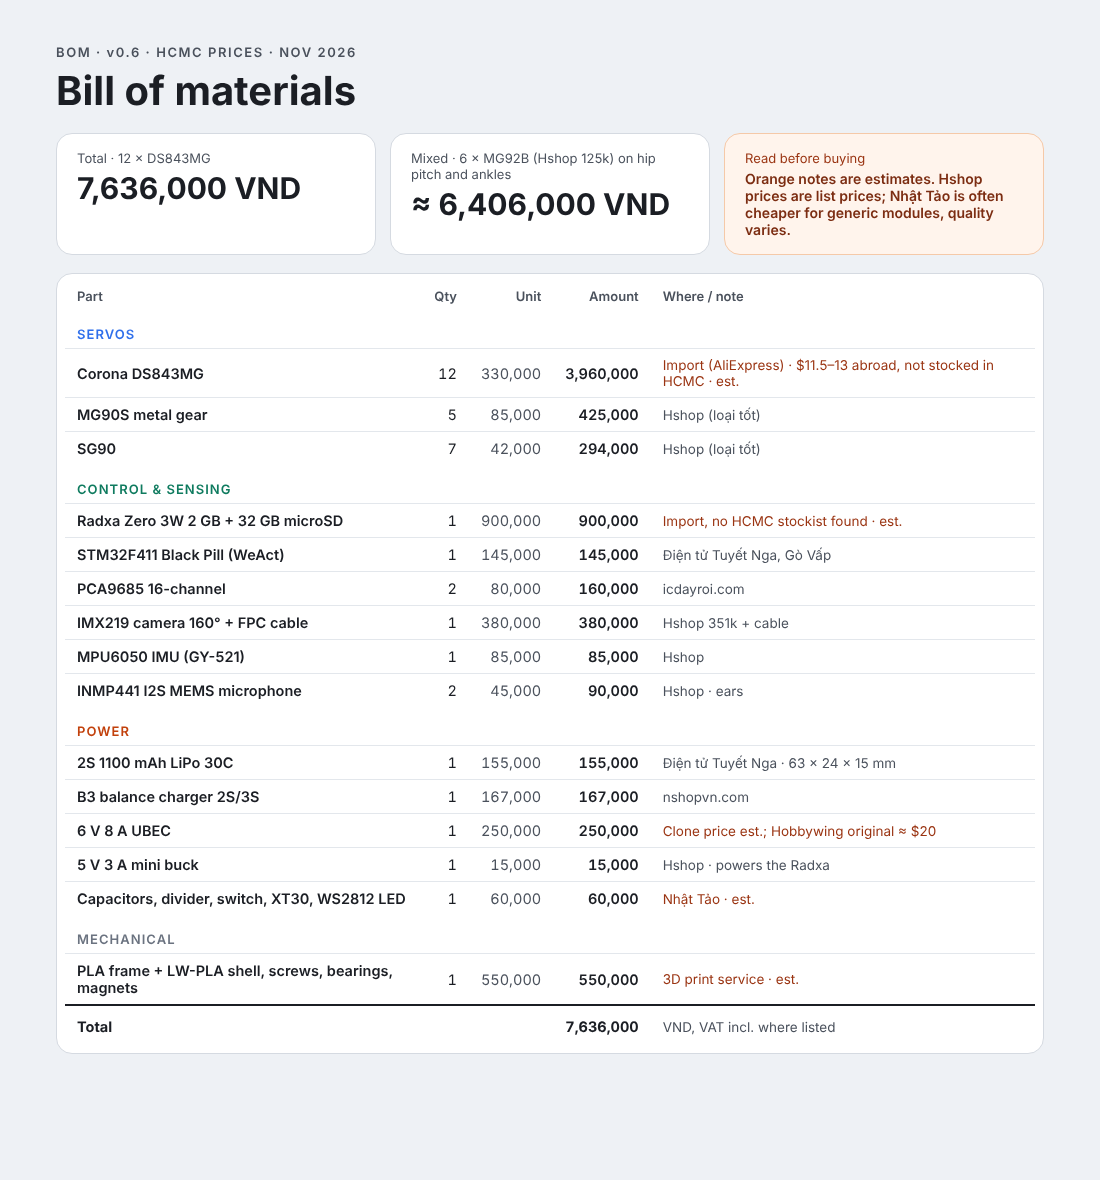
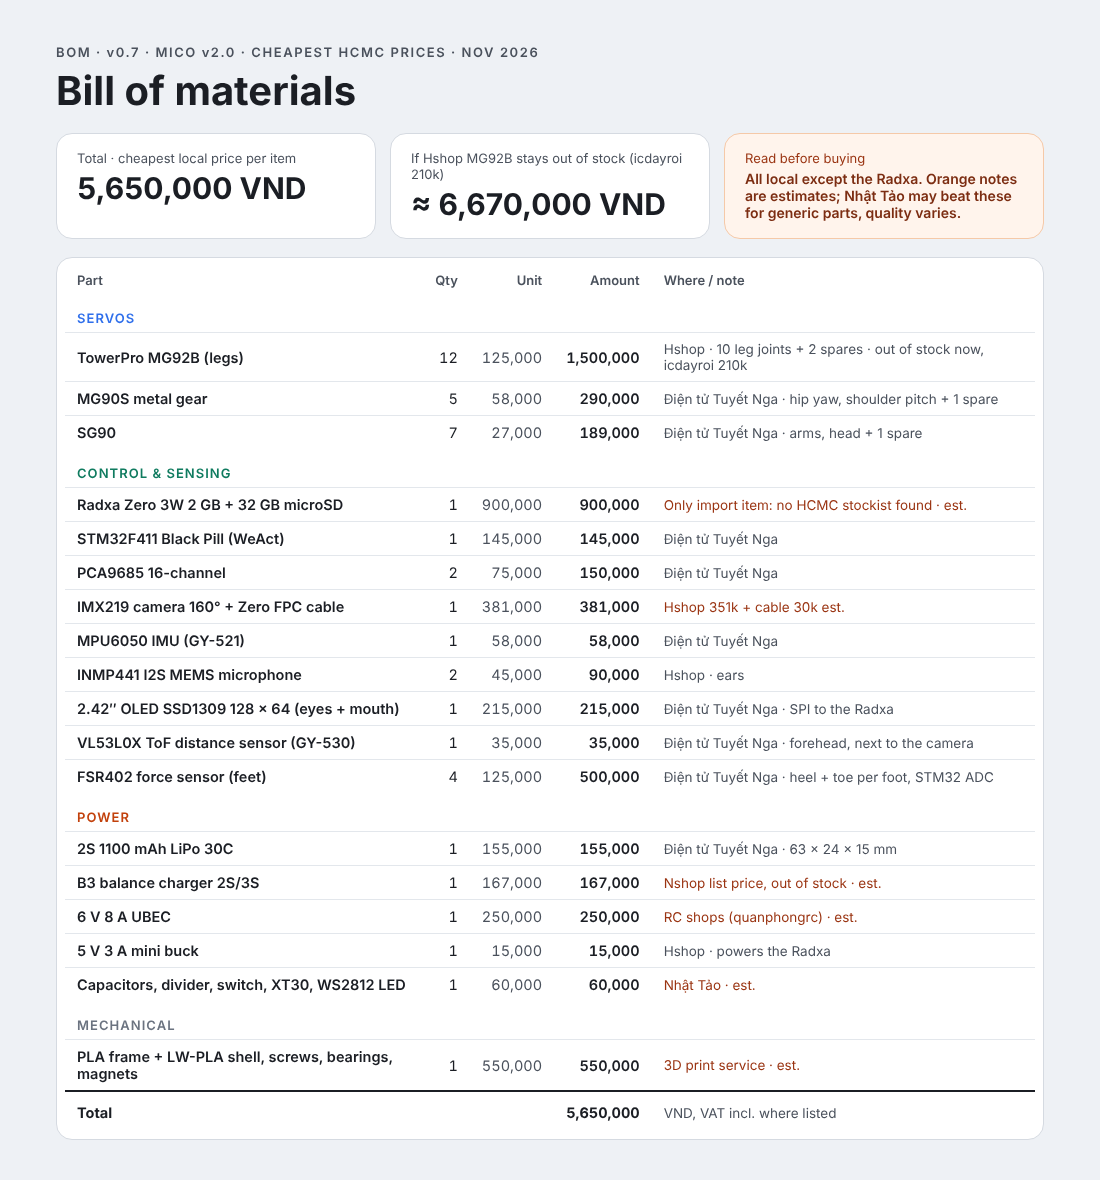
docs(design): BOM v0.7 with local servos, OLED eyes, FSR and ToF

diff --git a/docs/design/sketch_shell_a/BOM.dc.html b/docs/design/sketch_shell_a/BOM.dc.html
@@ -16,21 +16,21 @@ body{margin:0}
 </helmet>
 <div style="width: 1100px; height: 1180px; box-sizing: border-box; padding: 44px 56px; background: #EEF1F5; display: flex; flex-direction: column; gap: 18px; font-family: Inter, system-ui, sans-serif; color: #1B1E24">
 <div style="display: flex; flex-direction: column; gap: 6px">
-<p style="margin: 0; font-size: 13px; font-weight: 600; letter-spacing: 0.12em; color: #4A515C">BOM · v0.6 · HCMC PRICES · NOV 2026</p>
+<p style="margin: 0; font-size: 13px; font-weight: 600; letter-spacing: 0.12em; color: #4A515C">BOM · v0.7 · MICO v2.0 · CHEAPEST HCMC PRICES · NOV 2026</p>
 <h2 style="margin: 0; font-family: 'Space Grotesk', Inter, sans-serif; font-size: 40px; font-weight: 700">Bill of materials</h2>
 </div>
 <div style="display: flex; gap: 14px">
 <div style="flex: 1 1 0; background: #FFFFFF; border: 1px solid #D5DAE1; border-radius: 16px; padding: 16px 20px; display: flex; flex-direction: column; gap: 4px">
-<span style="font-size: 13px; color: #4A515C">Total · 12 × DS843MG</span>
-<span style="font-family: 'Space Grotesk', Inter, sans-serif; font-size: 30px; font-weight: 700">7,636,000 VND</span>
+<span style="font-size: 13px; color: #4A515C">Total · cheapest local price per item</span>
+<span style="font-family: 'Space Grotesk', Inter, sans-serif; font-size: 30px; font-weight: 700">5,650,000 VND</span>
 </div>
 <div style="flex: 1 1 0; background: #FFFFFF; border: 1px solid #D5DAE1; border-radius: 16px; padding: 16px 20px; display: flex; flex-direction: column; gap: 4px">
-<span style="font-size: 13px; color: #4A515C">Mixed · 6 × MG92B (Hshop 125k) on hip pitch and ankles</span>
-<span style="font-family: 'Space Grotesk', Inter, sans-serif; font-size: 30px; font-weight: 700">≈ 6,406,000 VND</span>
+<span style="font-size: 13px; color: #4A515C">If Hshop MG92B stays out of stock (icdayroi 210k)</span>
+<span style="font-family: 'Space Grotesk', Inter, sans-serif; font-size: 30px; font-weight: 700">≈ 6,670,000 VND</span>
 </div>
 <div style="flex: 1 1 0; background: #FFF4EC; border: 1px solid #F5C9A8; border-radius: 16px; padding: 16px 20px; display: flex; flex-direction: column; gap: 4px">
 <span style="font-size: 13px; color: #9A3412">Read before buying</span>
-<span style="font-size: 14px; font-weight: 600; color: #7C2D12">Orange notes are estimates. Hshop prices are list prices; Nhật Tảo is often cheaper for generic modules, quality varies.</span>
+<span style="font-size: 14px; font-weight: 600; color: #7C2D12">All local except the Radxa. Orange notes are estimates; Nhật Tảo may beat these for generic parts, quality varies.</span>
 </div>
 </div>
 <div style="background: #FFFFFF; border: 1px solid #D5DAE1; border-radius: 16px; padding: 2px 8px 6px">
@@ -44,26 +44,29 @@ body{margin:0}
 </tr></thead>
 <tbody>
 <tr><td colspan="5" style="padding: 16px 12px 6px; font-size: 13px; font-weight: 600; letter-spacing: 0.08em; color: #2F6FEB; text-transform: uppercase">Servos</td></tr>
-<tr style="border-top: 1px solid #E3E7EC"><td style="padding: 8px 12px; font-weight: 600">Corona DS843MG</td><td style="padding: 8px 12px; text-align: right; font-variant-numeric: tabular-nums">12</td><td style="padding: 8px 12px; text-align: right; font-variant-numeric: tabular-nums; color: #4A515C">330,000</td><td style="padding: 8px 12px; text-align: right; font-variant-numeric: tabular-nums; font-weight: 600">3,960,000</td><td style="padding: 8px 12px; font-size: 13.5px; color: #9A3412">Import (AliExpress) · $11.5–13 abroad, not stocked in HCMC · est.</td></tr>
-<tr style="border-top: 1px solid #E3E7EC"><td style="padding: 8px 12px; font-weight: 600">MG90S metal gear</td><td style="padding: 8px 12px; text-align: right; font-variant-numeric: tabular-nums">5</td><td style="padding: 8px 12px; text-align: right; font-variant-numeric: tabular-nums; color: #4A515C">85,000</td><td style="padding: 8px 12px; text-align: right; font-variant-numeric: tabular-nums; font-weight: 600">425,000</td><td style="padding: 8px 12px; font-size: 13.5px; color: #4A515C">Hshop (loại tốt)</td></tr>
-<tr style="border-top: 1px solid #E3E7EC"><td style="padding: 8px 12px; font-weight: 600">SG90</td><td style="padding: 8px 12px; text-align: right; font-variant-numeric: tabular-nums">7</td><td style="padding: 8px 12px; text-align: right; font-variant-numeric: tabular-nums; color: #4A515C">42,000</td><td style="padding: 8px 12px; text-align: right; font-variant-numeric: tabular-nums; font-weight: 600">294,000</td><td style="padding: 8px 12px; font-size: 13.5px; color: #4A515C">Hshop (loại tốt)</td></tr>
+<tr style="border-top: 1px solid #E3E7EC"><td style="padding: 8px 12px; font-weight: 600">TowerPro MG92B (legs)</td><td style="padding: 8px 12px; text-align: right; font-variant-numeric: tabular-nums">12</td><td style="padding: 8px 12px; text-align: right; font-variant-numeric: tabular-nums; color: #4A515C">125,000</td><td style="padding: 8px 12px; text-align: right; font-variant-numeric: tabular-nums; font-weight: 600">1,500,000</td><td style="padding: 8px 12px; font-size: 13.5px; color: #4A515C">Hshop · 10 leg joints + 2 spares · out of stock now, icdayroi 210k</td></tr>
+<tr style="border-top: 1px solid #E3E7EC"><td style="padding: 8px 12px; font-weight: 600">MG90S metal gear</td><td style="padding: 8px 12px; text-align: right; font-variant-numeric: tabular-nums">5</td><td style="padding: 8px 12px; text-align: right; font-variant-numeric: tabular-nums; color: #4A515C">58,000</td><td style="padding: 8px 12px; text-align: right; font-variant-numeric: tabular-nums; font-weight: 600">290,000</td><td style="padding: 8px 12px; font-size: 13.5px; color: #4A515C">Điện tử Tuyết Nga · hip yaw, shoulder pitch + 1 spare</td></tr>
+<tr style="border-top: 1px solid #E3E7EC"><td style="padding: 8px 12px; font-weight: 600">SG90</td><td style="padding: 8px 12px; text-align: right; font-variant-numeric: tabular-nums">7</td><td style="padding: 8px 12px; text-align: right; font-variant-numeric: tabular-nums; color: #4A515C">27,000</td><td style="padding: 8px 12px; text-align: right; font-variant-numeric: tabular-nums; font-weight: 600">189,000</td><td style="padding: 8px 12px; font-size: 13.5px; color: #4A515C">Điện tử Tuyết Nga · arms, head + 1 spare</td></tr>
 <tr><td colspan="5" style="padding: 16px 12px 6px; font-size: 13px; font-weight: 600; letter-spacing: 0.08em; color: #0F7B5F; text-transform: uppercase">Control & sensing</td></tr>
-<tr style="border-top: 1px solid #E3E7EC"><td style="padding: 8px 12px; font-weight: 600">Radxa Zero 3W 2 GB + 32 GB microSD</td><td style="padding: 8px 12px; text-align: right; font-variant-numeric: tabular-nums">1</td><td style="padding: 8px 12px; text-align: right; font-variant-numeric: tabular-nums; color: #4A515C">900,000</td><td style="padding: 8px 12px; text-align: right; font-variant-numeric: tabular-nums; font-weight: 600">900,000</td><td style="padding: 8px 12px; font-size: 13.5px; color: #9A3412">Import, no HCMC stockist found · est.</td></tr>
-<tr style="border-top: 1px solid #E3E7EC"><td style="padding: 8px 12px; font-weight: 600">STM32F411 Black Pill (WeAct)</td><td style="padding: 8px 12px; text-align: right; font-variant-numeric: tabular-nums">1</td><td style="padding: 8px 12px; text-align: right; font-variant-numeric: tabular-nums; color: #4A515C">145,000</td><td style="padding: 8px 12px; text-align: right; font-variant-numeric: tabular-nums; font-weight: 600">145,000</td><td style="padding: 8px 12px; font-size: 13.5px; color: #4A515C">Điện tử Tuyết Nga, Gò Vấp</td></tr>
-<tr style="border-top: 1px solid #E3E7EC"><td style="padding: 8px 12px; font-weight: 600">PCA9685 16-channel</td><td style="padding: 8px 12px; text-align: right; font-variant-numeric: tabular-nums">2</td><td style="padding: 8px 12px; text-align: right; font-variant-numeric: tabular-nums; color: #4A515C">80,000</td><td style="padding: 8px 12px; text-align: right; font-variant-numeric: tabular-nums; font-weight: 600">160,000</td><td style="padding: 8px 12px; font-size: 13.5px; color: #4A515C">icdayroi.com</td></tr>
-<tr style="border-top: 1px solid #E3E7EC"><td style="padding: 8px 12px; font-weight: 600">IMX219 camera 160° + FPC cable</td><td style="padding: 8px 12px; text-align: right; font-variant-numeric: tabular-nums">1</td><td style="padding: 8px 12px; text-align: right; font-variant-numeric: tabular-nums; color: #4A515C">380,000</td><td style="padding: 8px 12px; text-align: right; font-variant-numeric: tabular-nums; font-weight: 600">380,000</td><td style="padding: 8px 12px; font-size: 13.5px; color: #4A515C">Hshop 351k + cable</td></tr>
-<tr style="border-top: 1px solid #E3E7EC"><td style="padding: 8px 12px; font-weight: 600">MPU6050 IMU (GY-521)</td><td style="padding: 8px 12px; text-align: right; font-variant-numeric: tabular-nums">1</td><td style="padding: 8px 12px; text-align: right; font-variant-numeric: tabular-nums; color: #4A515C">85,000</td><td style="padding: 8px 12px; text-align: right; font-variant-numeric: tabular-nums; font-weight: 600">85,000</td><td style="padding: 8px 12px; font-size: 13.5px; color: #4A515C">Hshop</td></tr>
+<tr style="border-top: 1px solid #E3E7EC"><td style="padding: 8px 12px; font-weight: 600">Radxa Zero 3W 2 GB + 32 GB microSD</td><td style="padding: 8px 12px; text-align: right; font-variant-numeric: tabular-nums">1</td><td style="padding: 8px 12px; text-align: right; font-variant-numeric: tabular-nums; color: #4A515C">900,000</td><td style="padding: 8px 12px; text-align: right; font-variant-numeric: tabular-nums; font-weight: 600">900,000</td><td style="padding: 8px 12px; font-size: 13.5px; color: #9A3412">Only import item: no HCMC stockist found · est.</td></tr>
+<tr style="border-top: 1px solid #E3E7EC"><td style="padding: 8px 12px; font-weight: 600">STM32F411 Black Pill (WeAct)</td><td style="padding: 8px 12px; text-align: right; font-variant-numeric: tabular-nums">1</td><td style="padding: 8px 12px; text-align: right; font-variant-numeric: tabular-nums; color: #4A515C">145,000</td><td style="padding: 8px 12px; text-align: right; font-variant-numeric: tabular-nums; font-weight: 600">145,000</td><td style="padding: 8px 12px; font-size: 13.5px; color: #4A515C">Điện tử Tuyết Nga</td></tr>
+<tr style="border-top: 1px solid #E3E7EC"><td style="padding: 8px 12px; font-weight: 600">PCA9685 16-channel</td><td style="padding: 8px 12px; text-align: right; font-variant-numeric: tabular-nums">2</td><td style="padding: 8px 12px; text-align: right; font-variant-numeric: tabular-nums; color: #4A515C">75,000</td><td style="padding: 8px 12px; text-align: right; font-variant-numeric: tabular-nums; font-weight: 600">150,000</td><td style="padding: 8px 12px; font-size: 13.5px; color: #4A515C">Điện tử Tuyết Nga</td></tr>
+<tr style="border-top: 1px solid #E3E7EC"><td style="padding: 8px 12px; font-weight: 600">IMX219 camera 160° + Zero FPC cable</td><td style="padding: 8px 12px; text-align: right; font-variant-numeric: tabular-nums">1</td><td style="padding: 8px 12px; text-align: right; font-variant-numeric: tabular-nums; color: #4A515C">381,000</td><td style="padding: 8px 12px; text-align: right; font-variant-numeric: tabular-nums; font-weight: 600">381,000</td><td style="padding: 8px 12px; font-size: 13.5px; color: #9A3412">Hshop 351k + cable 30k est.</td></tr>
+<tr style="border-top: 1px solid #E3E7EC"><td style="padding: 8px 12px; font-weight: 600">MPU6050 IMU (GY-521)</td><td style="padding: 8px 12px; text-align: right; font-variant-numeric: tabular-nums">1</td><td style="padding: 8px 12px; text-align: right; font-variant-numeric: tabular-nums; color: #4A515C">58,000</td><td style="padding: 8px 12px; text-align: right; font-variant-numeric: tabular-nums; font-weight: 600">58,000</td><td style="padding: 8px 12px; font-size: 13.5px; color: #4A515C">Điện tử Tuyết Nga</td></tr>
 <tr style="border-top: 1px solid #E3E7EC"><td style="padding: 8px 12px; font-weight: 600">INMP441 I2S MEMS microphone</td><td style="padding: 8px 12px; text-align: right; font-variant-numeric: tabular-nums">2</td><td style="padding: 8px 12px; text-align: right; font-variant-numeric: tabular-nums; color: #4A515C">45,000</td><td style="padding: 8px 12px; text-align: right; font-variant-numeric: tabular-nums; font-weight: 600">90,000</td><td style="padding: 8px 12px; font-size: 13.5px; color: #4A515C">Hshop · ears</td></tr>
+<tr style="border-top: 1px solid #E3E7EC"><td style="padding: 8px 12px; font-weight: 600">2.42″ OLED SSD1309 128 × 64 (eyes + mouth)</td><td style="padding: 8px 12px; text-align: right; font-variant-numeric: tabular-nums">1</td><td style="padding: 8px 12px; text-align: right; font-variant-numeric: tabular-nums; color: #4A515C">215,000</td><td style="padding: 8px 12px; text-align: right; font-variant-numeric: tabular-nums; font-weight: 600">215,000</td><td style="padding: 8px 12px; font-size: 13.5px; color: #4A515C">Điện tử Tuyết Nga · SPI to the Radxa</td></tr>
+<tr style="border-top: 1px solid #E3E7EC"><td style="padding: 8px 12px; font-weight: 600">VL53L0X ToF distance sensor (GY-530)</td><td style="padding: 8px 12px; text-align: right; font-variant-numeric: tabular-nums">1</td><td style="padding: 8px 12px; text-align: right; font-variant-numeric: tabular-nums; color: #4A515C">35,000</td><td style="padding: 8px 12px; text-align: right; font-variant-numeric: tabular-nums; font-weight: 600">35,000</td><td style="padding: 8px 12px; font-size: 13.5px; color: #4A515C">Điện tử Tuyết Nga · forehead, next to the camera</td></tr>
+<tr style="border-top: 1px solid #E3E7EC"><td style="padding: 8px 12px; font-weight: 600">FSR402 force sensor (feet)</td><td style="padding: 8px 12px; text-align: right; font-variant-numeric: tabular-nums">4</td><td style="padding: 8px 12px; text-align: right; font-variant-numeric: tabular-nums; color: #4A515C">125,000</td><td style="padding: 8px 12px; text-align: right; font-variant-numeric: tabular-nums; font-weight: 600">500,000</td><td style="padding: 8px 12px; font-size: 13.5px; color: #4A515C">Điện tử Tuyết Nga · heel + toe per foot, STM32 ADC</td></tr>
 <tr><td colspan="5" style="padding: 16px 12px 6px; font-size: 13px; font-weight: 600; letter-spacing: 0.08em; color: #C2410C; text-transform: uppercase">Power</td></tr>
 <tr style="border-top: 1px solid #E3E7EC"><td style="padding: 8px 12px; font-weight: 600">2S 1100 mAh LiPo 30C</td><td style="padding: 8px 12px; text-align: right; font-variant-numeric: tabular-nums">1</td><td style="padding: 8px 12px; text-align: right; font-variant-numeric: tabular-nums; color: #4A515C">155,000</td><td style="padding: 8px 12px; text-align: right; font-variant-numeric: tabular-nums; font-weight: 600">155,000</td><td style="padding: 8px 12px; font-size: 13.5px; color: #4A515C">Điện tử Tuyết Nga · 63 × 24 × 15 mm</td></tr>
-<tr style="border-top: 1px solid #E3E7EC"><td style="padding: 8px 12px; font-weight: 600">B3 balance charger 2S/3S</td><td style="padding: 8px 12px; text-align: right; font-variant-numeric: tabular-nums">1</td><td style="padding: 8px 12px; text-align: right; font-variant-numeric: tabular-nums; color: #4A515C">167,000</td><td style="padding: 8px 12px; text-align: right; font-variant-numeric: tabular-nums; font-weight: 600">167,000</td><td style="padding: 8px 12px; font-size: 13.5px; color: #4A515C">nshopvn.com</td></tr>
-<tr style="border-top: 1px solid #E3E7EC"><td style="padding: 8px 12px; font-weight: 600">6 V 8 A UBEC</td><td style="padding: 8px 12px; text-align: right; font-variant-numeric: tabular-nums">1</td><td style="padding: 8px 12px; text-align: right; font-variant-numeric: tabular-nums; color: #4A515C">250,000</td><td style="padding: 8px 12px; text-align: right; font-variant-numeric: tabular-nums; font-weight: 600">250,000</td><td style="padding: 8px 12px; font-size: 13.5px; color: #9A3412">Clone price est.; Hobbywing original ≈ $20</td></tr>
+<tr style="border-top: 1px solid #E3E7EC"><td style="padding: 8px 12px; font-weight: 600">B3 balance charger 2S/3S</td><td style="padding: 8px 12px; text-align: right; font-variant-numeric: tabular-nums">1</td><td style="padding: 8px 12px; text-align: right; font-variant-numeric: tabular-nums; color: #4A515C">167,000</td><td style="padding: 8px 12px; text-align: right; font-variant-numeric: tabular-nums; font-weight: 600">167,000</td><td style="padding: 8px 12px; font-size: 13.5px; color: #9A3412">Nshop list price, out of stock · est.</td></tr>
+<tr style="border-top: 1px solid #E3E7EC"><td style="padding: 8px 12px; font-weight: 600">6 V 8 A UBEC</td><td style="padding: 8px 12px; text-align: right; font-variant-numeric: tabular-nums">1</td><td style="padding: 8px 12px; text-align: right; font-variant-numeric: tabular-nums; color: #4A515C">250,000</td><td style="padding: 8px 12px; text-align: right; font-variant-numeric: tabular-nums; font-weight: 600">250,000</td><td style="padding: 8px 12px; font-size: 13.5px; color: #9A3412">RC shops (quanphongrc) · est.</td></tr>
 <tr style="border-top: 1px solid #E3E7EC"><td style="padding: 8px 12px; font-weight: 600">5 V 3 A mini buck</td><td style="padding: 8px 12px; text-align: right; font-variant-numeric: tabular-nums">1</td><td style="padding: 8px 12px; text-align: right; font-variant-numeric: tabular-nums; color: #4A515C">15,000</td><td style="padding: 8px 12px; text-align: right; font-variant-numeric: tabular-nums; font-weight: 600">15,000</td><td style="padding: 8px 12px; font-size: 13.5px; color: #4A515C">Hshop · powers the Radxa</td></tr>
 <tr style="border-top: 1px solid #E3E7EC"><td style="padding: 8px 12px; font-weight: 600">Capacitors, divider, switch, XT30, WS2812 LED</td><td style="padding: 8px 12px; text-align: right; font-variant-numeric: tabular-nums">1</td><td style="padding: 8px 12px; text-align: right; font-variant-numeric: tabular-nums; color: #4A515C">60,000</td><td style="padding: 8px 12px; text-align: right; font-variant-numeric: tabular-nums; font-weight: 600">60,000</td><td style="padding: 8px 12px; font-size: 13.5px; color: #9A3412">Nhật Tảo · est.</td></tr>
 <tr><td colspan="5" style="padding: 16px 12px 6px; font-size: 13px; font-weight: 600; letter-spacing: 0.08em; color: #6B7380; text-transform: uppercase">Mechanical</td></tr>
 <tr style="border-top: 1px solid #E3E7EC"><td style="padding: 8px 12px; font-weight: 600">PLA frame + LW-PLA shell, screws, bearings, magnets</td><td style="padding: 8px 12px; text-align: right; font-variant-numeric: tabular-nums">1</td><td style="padding: 8px 12px; text-align: right; font-variant-numeric: tabular-nums; color: #4A515C">550,000</td><td style="padding: 8px 12px; text-align: right; font-variant-numeric: tabular-nums; font-weight: 600">550,000</td><td style="padding: 8px 12px; font-size: 13.5px; color: #9A3412">3D print service · est.</td></tr>
 <tr style="border-top: 2px solid #1B1E24"><td style="padding: 12px; font-weight: 700">Total</td><td></td><td></td>
-<td style="padding: 12px; text-align: right; font-weight: 700; font-variant-numeric: tabular-nums">7,636,000</td>
+<td style="padding: 12px; text-align: right; font-weight: 700; font-variant-numeric: tabular-nums">5,650,000</td>
 <td style="padding: 12px; color: #4A515C; font-size: 13.5px">VND, VAT incl. where listed</td></tr>
 </tbody>
 </table>
